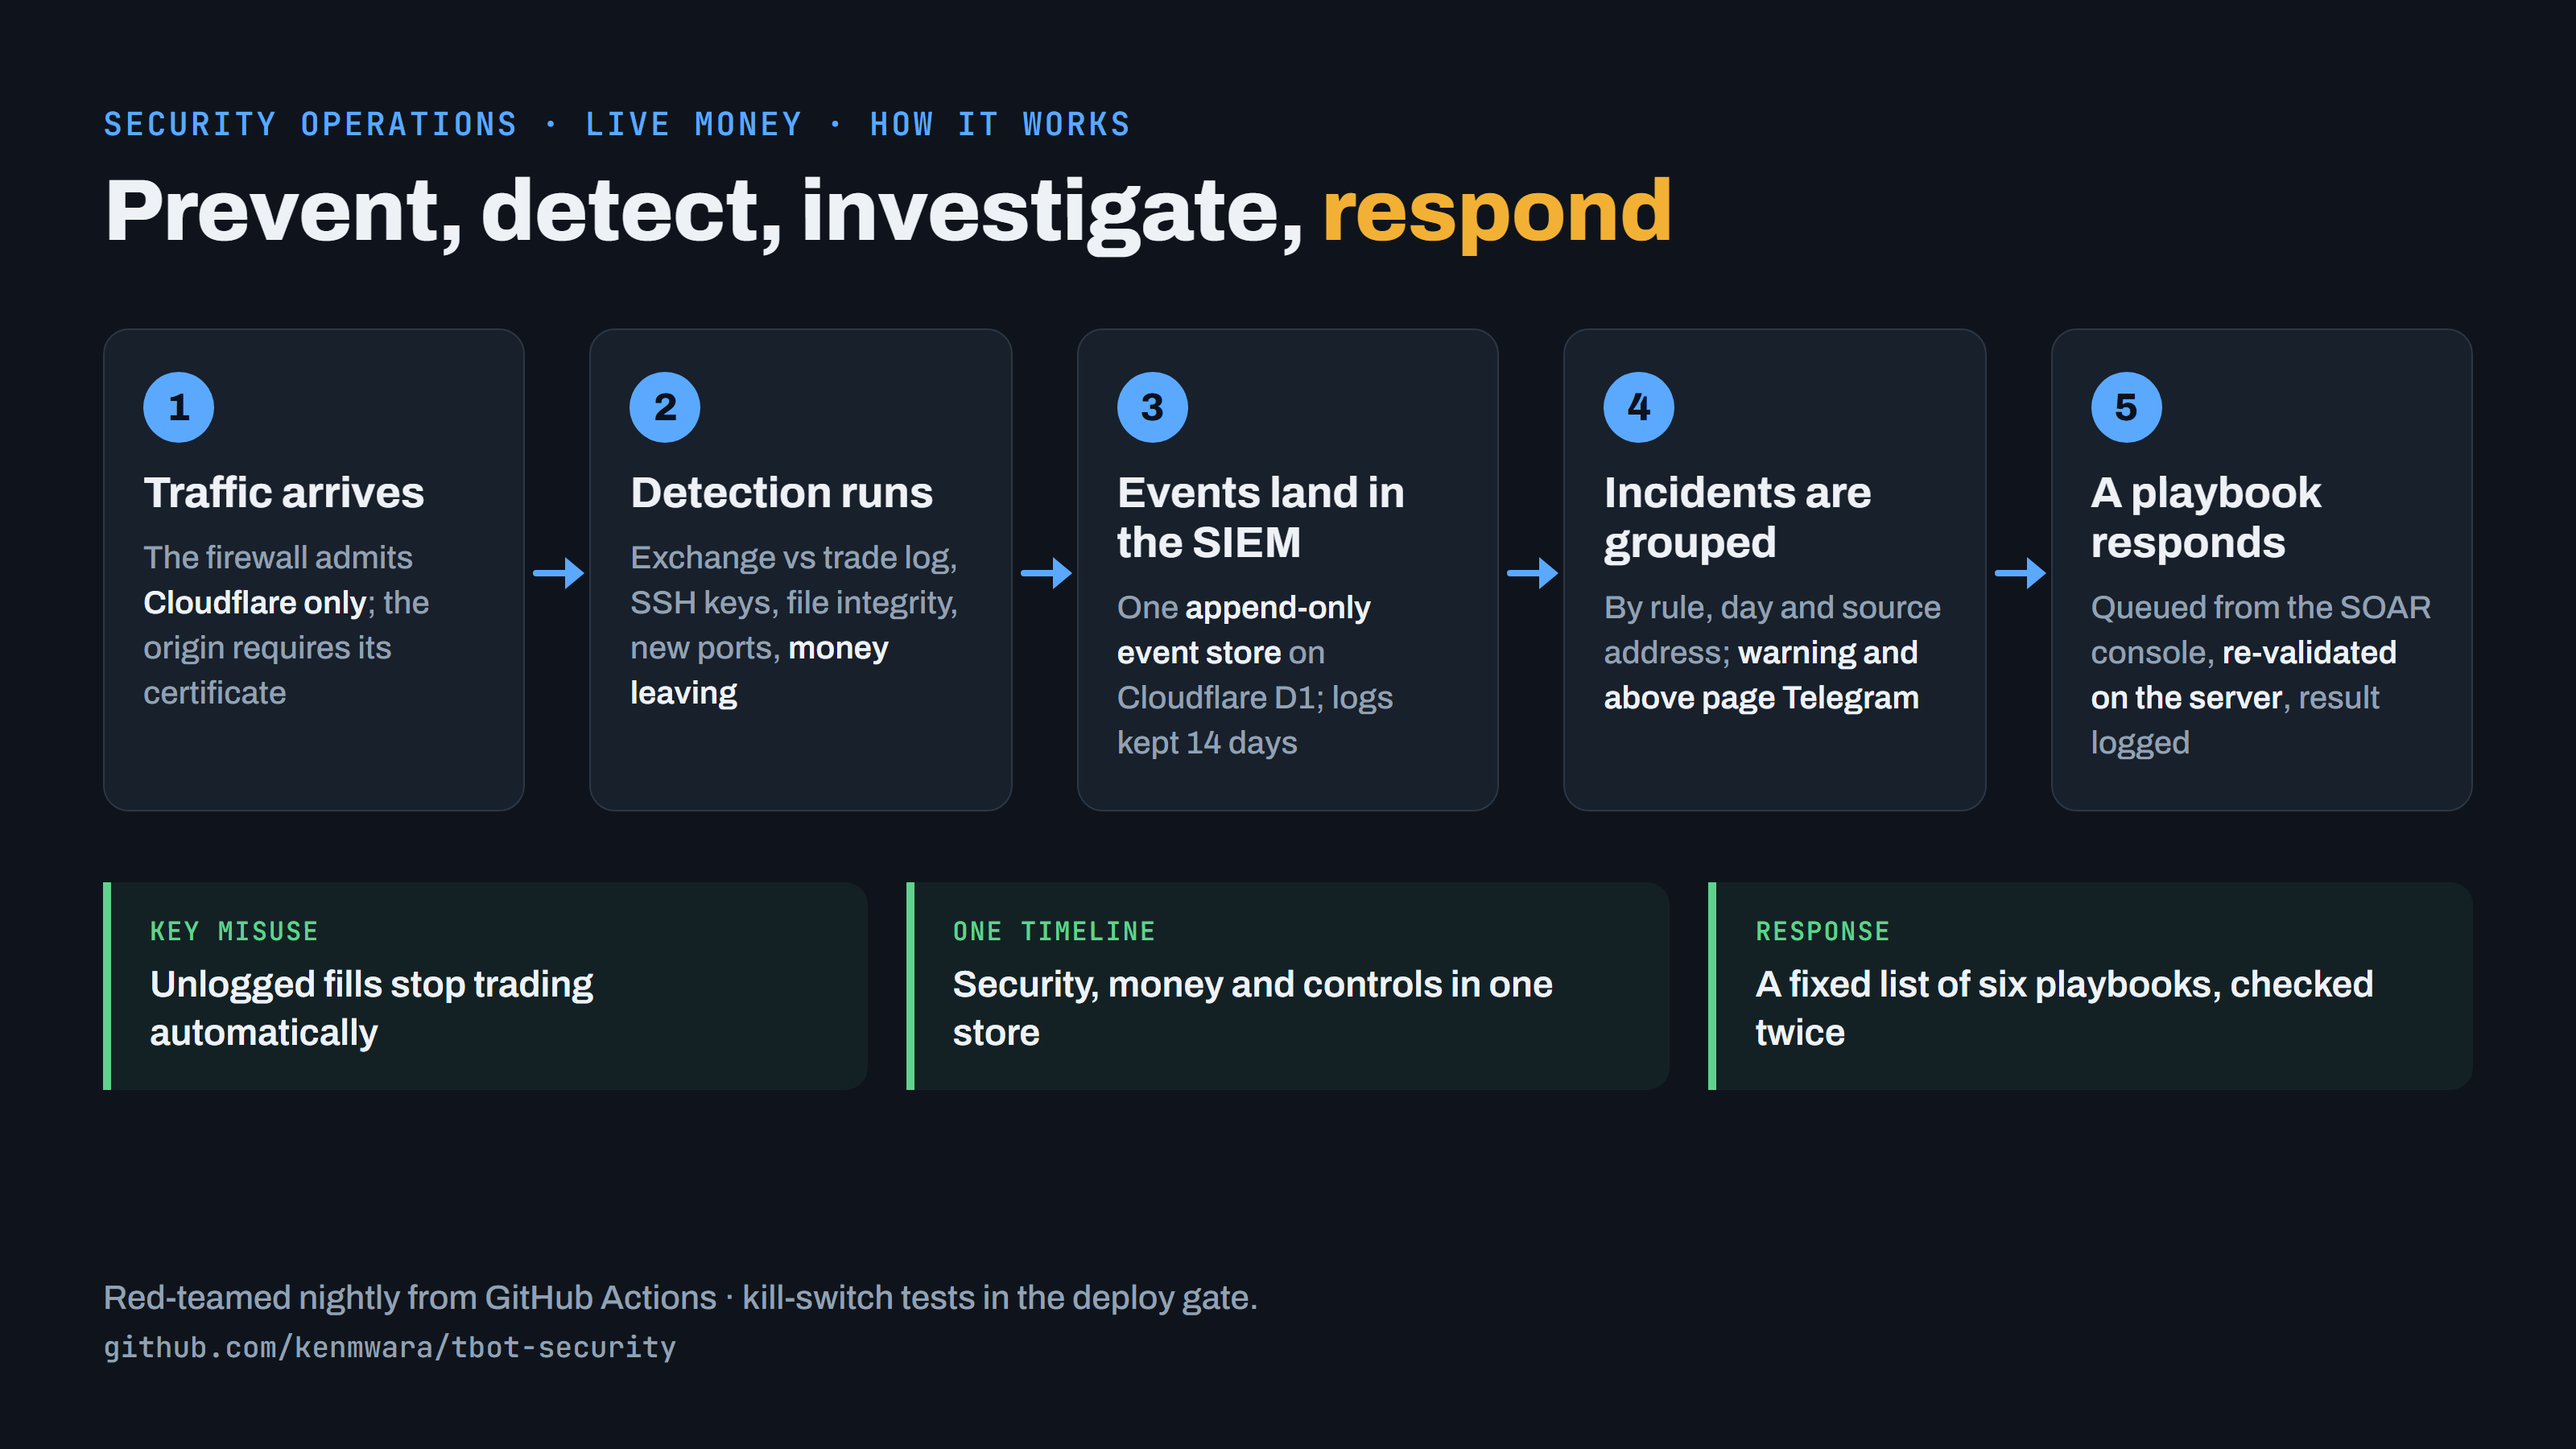
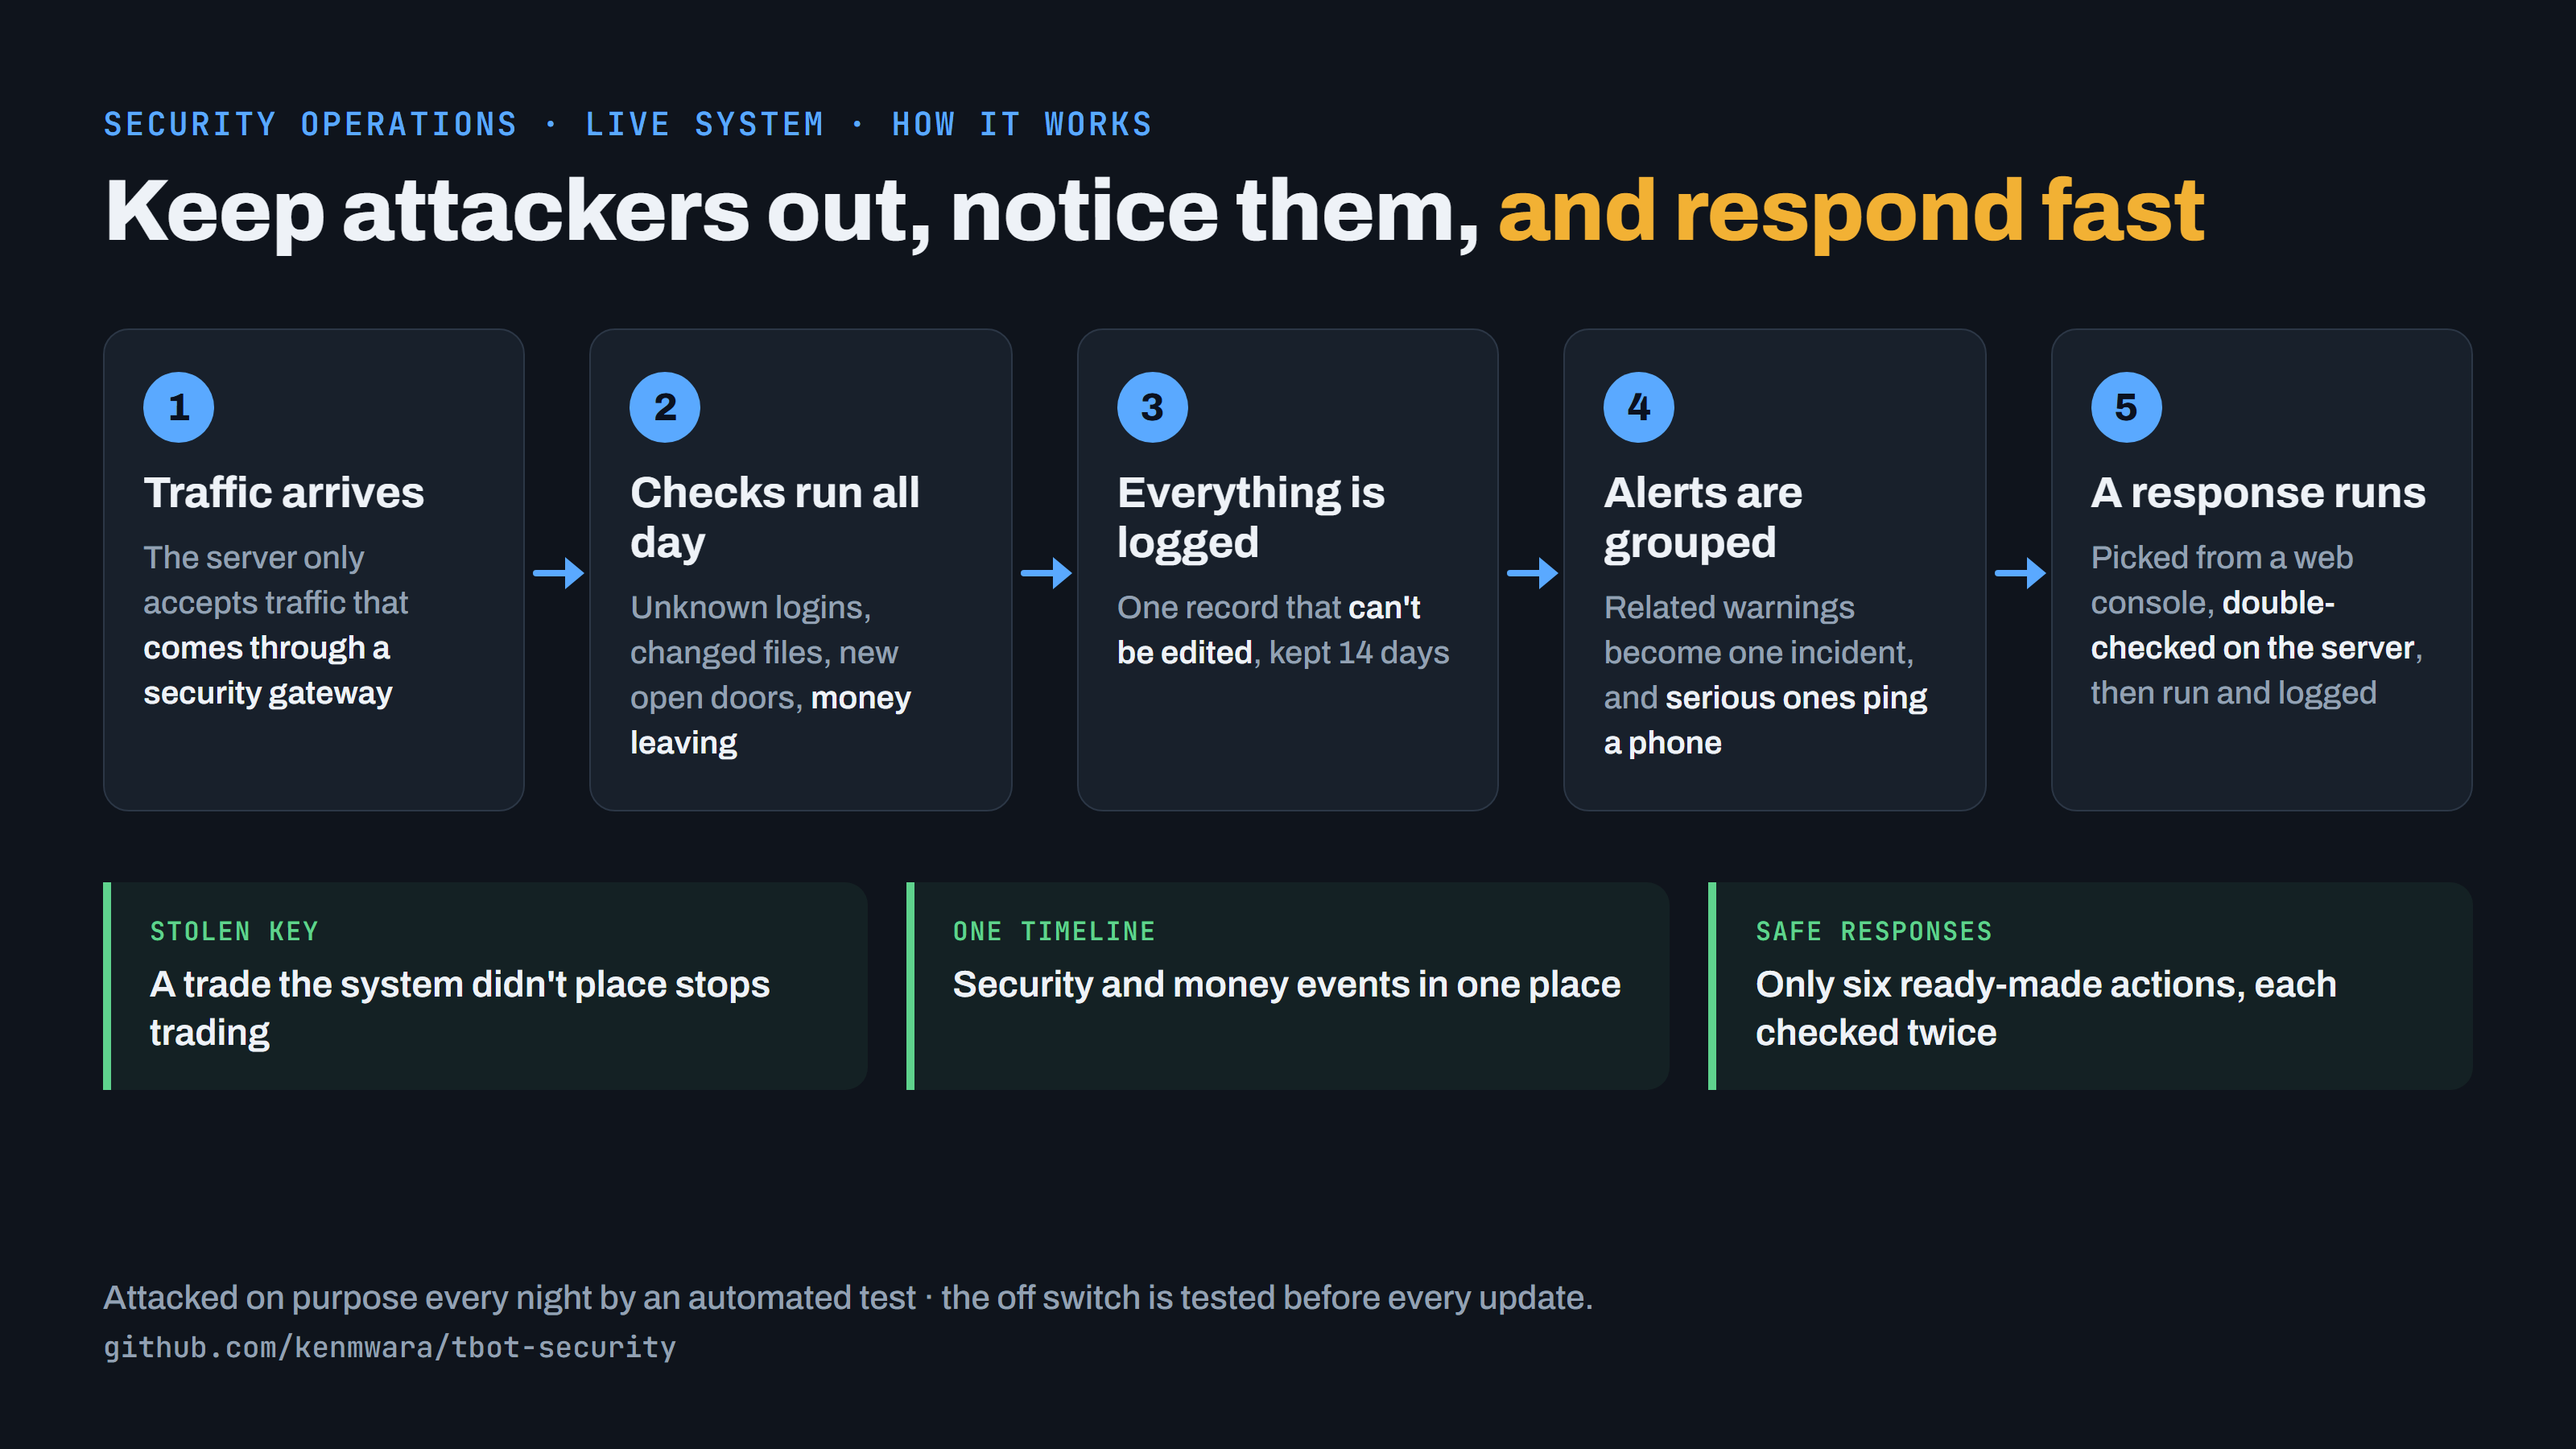
docs: diagrams and scorecards rewritten in plain English

diff --git a/README.md b/README.md
@@ -12,9 +12,9 @@
 
 ## Key takeaways
 
-<img src="images/scorecard.png" width="100%" alt="Key takeaways. Detection and response for a system nobody watches at 3 AM. 0: Logins by anyone but the operator. Since the September 2026 rebuild, against thousands of automated SSH attempts. <30 s: Playbook drill, end to end. Queued from the console, re-validated and run on the server, result back on the page. 6: Fixed response playbooks. The console can only queue from the list; dangerous ones need a typed confirmation. 14 days: Of live logs, one store. Append-only, shared with the operations dashboard as the SIEM. 1: Automatic stop on key misuse. A fill the bot never logged engages the kill switch.">
+<img src="images/scorecard.png" width="100%" alt="Key takeaways. Watching over a live trading system when nobody is awake. 0: Nobody got in. Thousands of automated break-in attempts since September 2026. The only logins were the owner's. <30 s: Responses run in seconds. In a live drill, a fix started from the web console ran on the server and reported back in under half a minute. 6: Ready-made responses. Like blocking an attacker's address. The risky ones ask for a typed word to confirm. 14 days: Two weeks of records, one place. Every security event is kept in a single log that can't be edited. 1: Trading stops itself if misused. If a trade appears that the system didn't place, trading shuts down automatically.">
 
-<img src="images/flow.png" width="100%" alt="Flow diagram in five steps. 1: Traffic arrives; The firewall admits Cloudflare only; the origin requires its certificate. 2: Detection runs; Exchange vs trade log, SSH keys, file integrity, new ports, money leaving. 3: Events land in the SIEM; One append-only event store on Cloudflare D1; logs kept 14 days. 4: Incidents are grouped; By rule, day and source address; warning and above page Telegram. 5: A playbook responds; Queued from the SOAR console, re-validated on the server, result logged. Guards: Key misuse, unlogged fills stop trading automatically; One timeline, security, money and controls in one store; Response, a fixed list of six playbooks, checked twice.">
+<img src="images/flow.png" width="100%" alt="How it works, in five steps. 1. Traffic arrives: The server only accepts traffic that comes through a security gateway. 2. Checks run all day: Unknown logins, changed files, new open doors, money leaving. 3. Everything is logged: One record that can't be edited, kept 14 days. 4. Alerts are grouped: Related warnings become one incident, and serious ones ping a phone. 5. A response runs: Picked from a web console, double-checked on the server, then run and logged. Safeguards: Stolen key: A trade the system didn't place stops trading; One timeline: Security and money events in one place; Safe responses: Only six ready-made actions, each checked twice.">
 
 ## Screenshots
 
